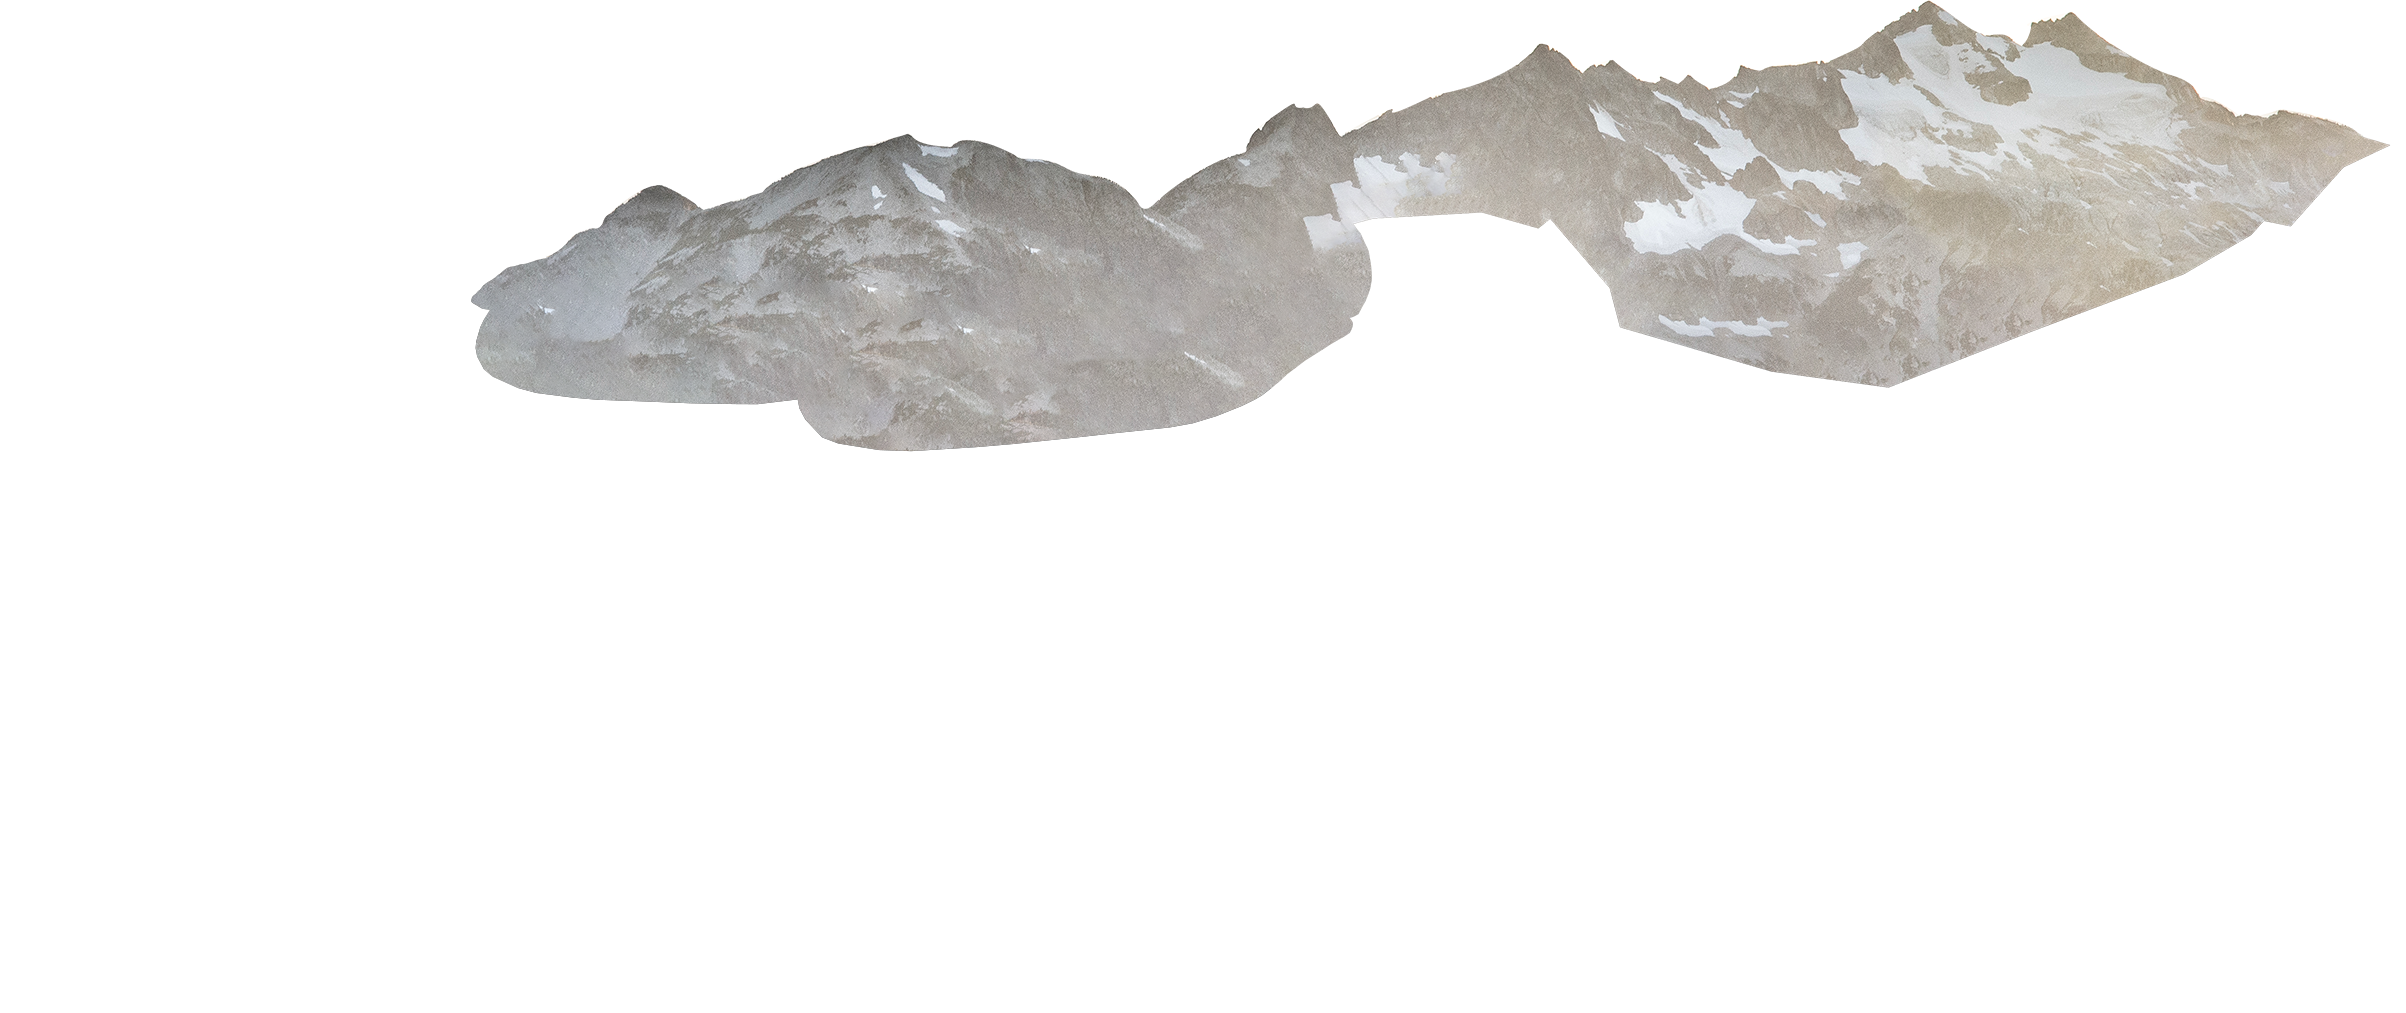
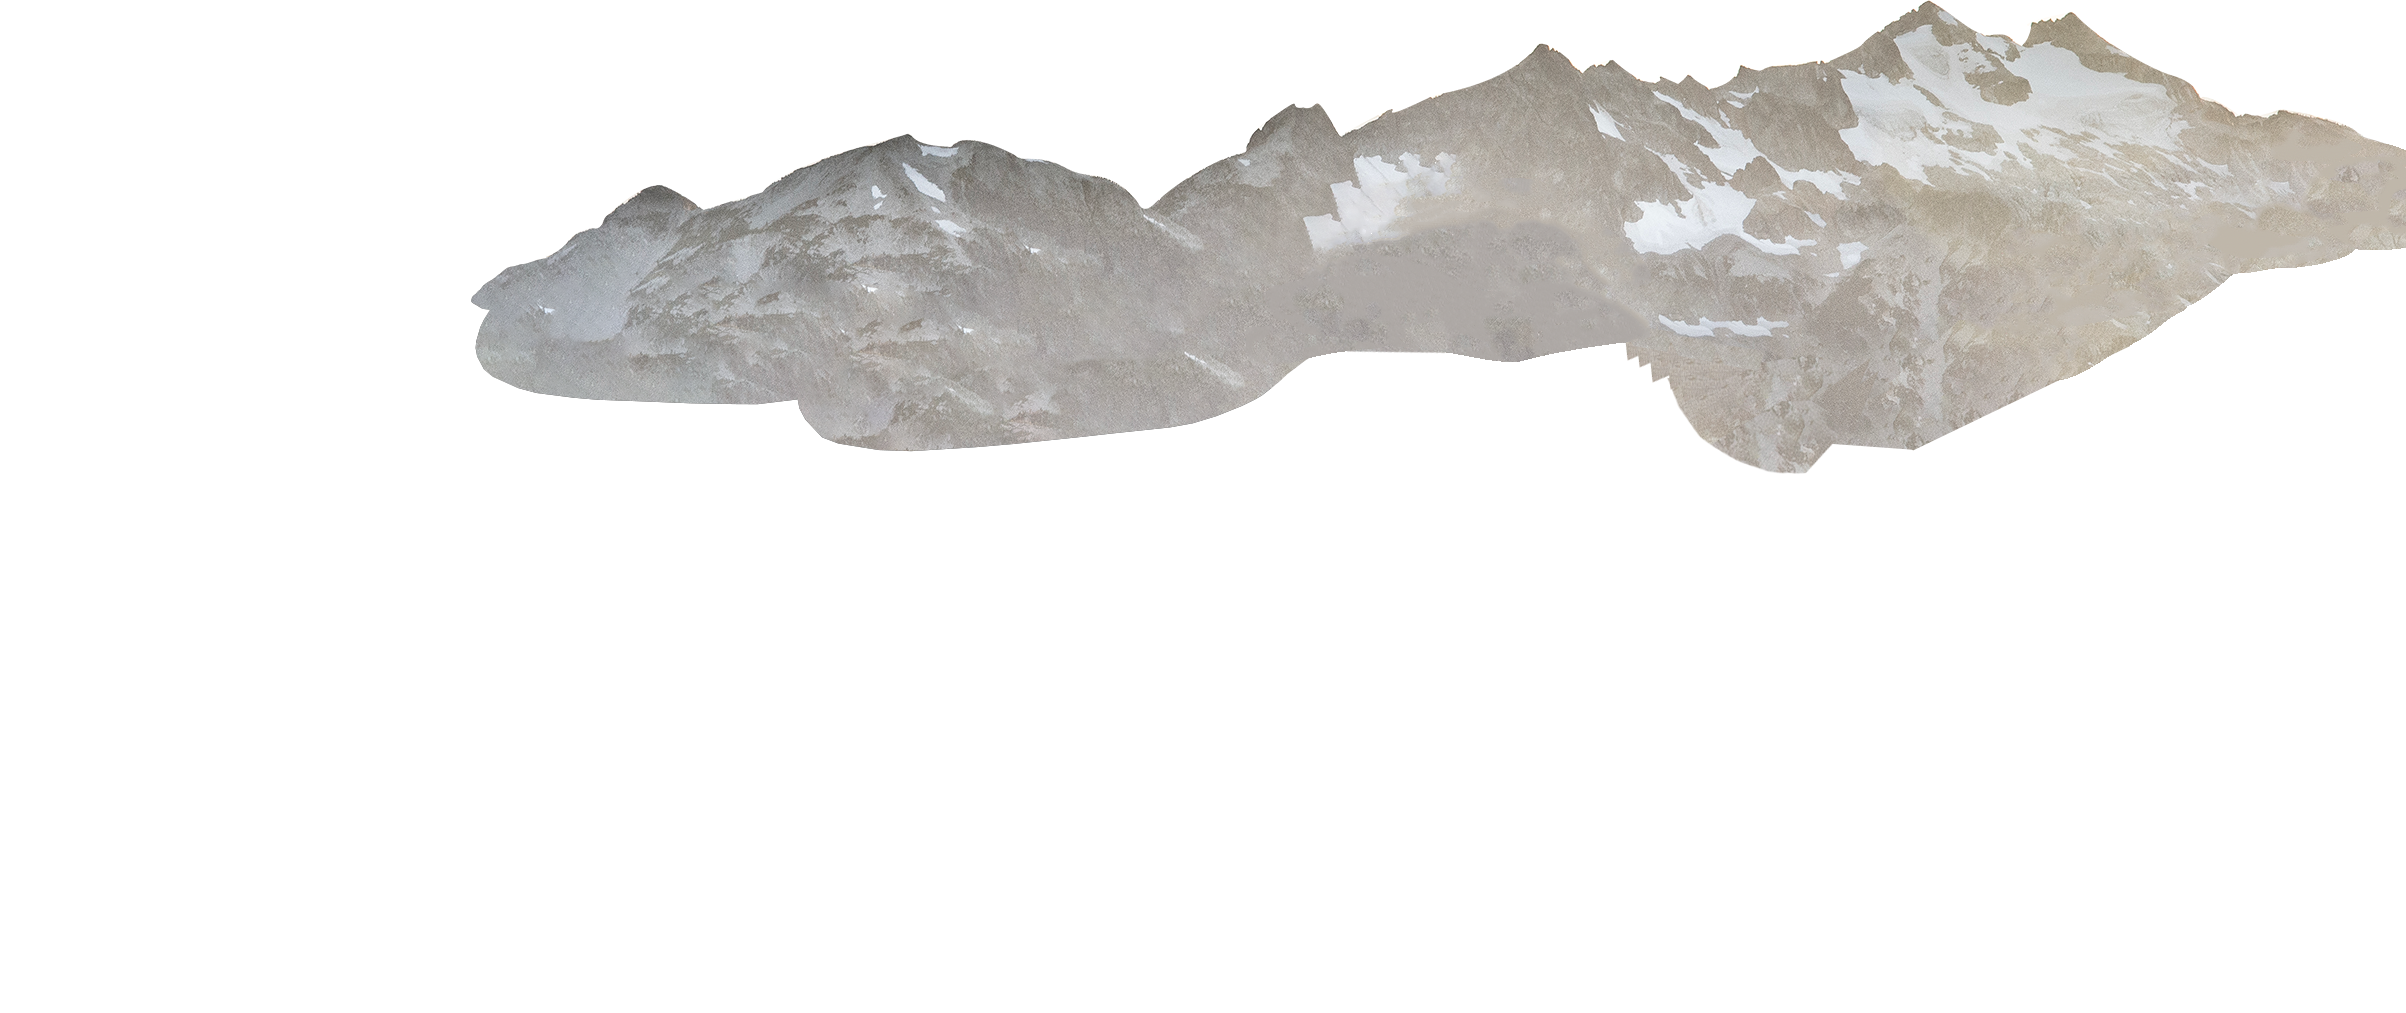
:rocket: add easing on mountains animation

Changed region(s): [[0.5299, 0.1224, 1.0, 0.4896]]

diff --git a/dev/js/Classes/Landing.js b/dev/js/Classes/Landing.js
@@ -1,31 +1,86 @@
+/**
+ * Landing object:
+ * - Mountains parrallax
+ * - ...
+ */
 class Landing {
   constructor () {
-    console.log('init landing')
+    console.log('init landing--')
     this.container = document.querySelector('.section-landing')
+
     this.title = document.querySelector('.landing__title-text')
     this.title_shadow = document.querySelector('.landing__title-shadow')
-    this.title_bar = document.querySelector('.landing__title-bar')
+
     this.width = window.innerWidth
     this.height = window.innerHeight
-    this.delta = 20
+    // this.delta = 300
+    this.ease = 0.08
 
-    this.mountains = document.querySelectorAll('.landing__background-img img')
+    /**
+     * mouse object, contain:
+     * - position x
+     * - position y
+     */
+    this.mouse = {
+      x: 0,
+      y: 0
+    }
 
+    /**
+     * Create mountain object for each layer, contain:
+     * - Positions cx, cy
+     * - speed ratio
+     * - DOM element
+     */
+    this.el_mountains = document.querySelectorAll('.landing__background-img img')
+    this.mountains = []
+    this.el_mountains.forEach((mountain, index) => {
+      let obj = {
+        cx: 0,
+        cy: 0,
+        speed: (this.el_mountains.length - index) / this.el_mountains.length,
+        delta: ((this.el_mountains.length - index) / this.el_mountains.length) * 40,
+        el: mountain
+      }
+      this.mountains.push(obj)
+    })
+
+    /**
+     * update screen size on resize
+     */
     window.addEventListener('resize', () => {
       this.width = window.innerWidth
       this.height = window.innerHeight
     })
 
+    /**
+     * Update mouse postions on mousemove
+     */
     window.addEventListener('mousemove', (e) => {
       if (e.pageY < this.height && !window.IS_TOUCHSCREEN) {
-        let translateX = Math.round(((e.pageX - this.width / 2) / (this.width / 2)) * this.delta)
-        let translateY = Math.round(((e.pageY - this.height / 2) / (this.height / 2)) * this.delta)
-        this.mountains.forEach((mountain, index) => {
-          let ratio = (this.mountains.length - index) / this.mountains.length
-          mountain.style.transform = 'translateX(' + (translateX * ratio) + 'px) translateY(' + translateY * ratio + 'px)'
-        })
+        this.mouse.x = e.pageX
+        this.mouse.y = e.pageY
       }
     })
+
+    this.mountainDraw()
+  }
+
+  /**
+   * Draw mountain layers in animation frame
+   */
+  mountainDraw () {
+    this.mountains.forEach((mountain) => {
+      let translateX = Math.round(((this.mouse.x - this.width / 2) / (this.width / 2)) * mountain.delta) * mountain.speed
+      let translateY = Math.round(((this.mouse.y - this.height / 2) / (this.height / 2)) * mountain.delta) * mountain.speed
+
+      mountain.cx += ((translateX - mountain.cx)) * this.ease
+      mountain.cy += ((translateY - mountain.cy)) * this.ease
+      mountain.el.style.transform = `translateX(${mountain.cx}px) translateY(${mountain.cy}px)`
+    })
+
+    // console.log('hello')
+    window.requestAnimationFrame(this.mountainDraw.bind(this))
   }
 }
 

diff --git a/dev/js/Classes/Header.js b/dev/js/Classes/Header.js
@@ -12,11 +12,8 @@ class Header {
         this.items[this.current_section].classList.remove('header__item--active')
         this.current_section = index
         this.items[this.current_section].classList.add('header__item--active')
-        this.sections[this.current_section].scrollIntoView({
-          behavior: 'smooth'
-        })
       })
-    });
+    })
 
     this.btn_toggle.addEventListener('click', () => {
       this.toggle()

diff --git a/dev/js/main.js b/dev/js/main.js
@@ -1,9 +1,5 @@
 import Landing from './Classes/Landing'
 import Header from './Classes/Header'
-import Rellax from 'rellax'
-import SmoothScroll from 'smoothscroll-polyfill'
-
-window.__forceSmoothScrollPolyfill__ = true
 
 /* class Init {
   constructor () {
@@ -18,7 +14,5 @@ window.addEventListener('touchstart', function () {
 })
 
 new Header(document.querySelector('.header'))
-
-let rellax = new Rellax('.rellax')
 
 new Landing()
